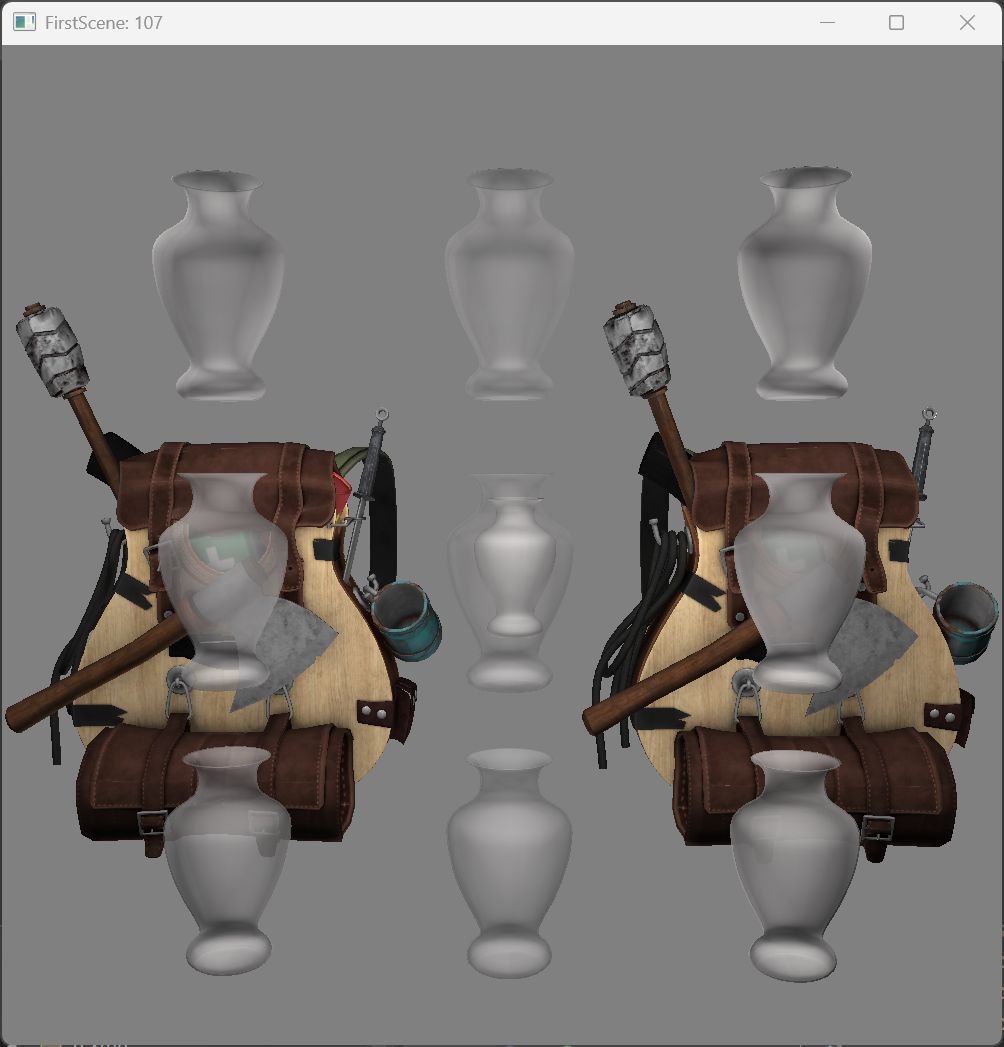
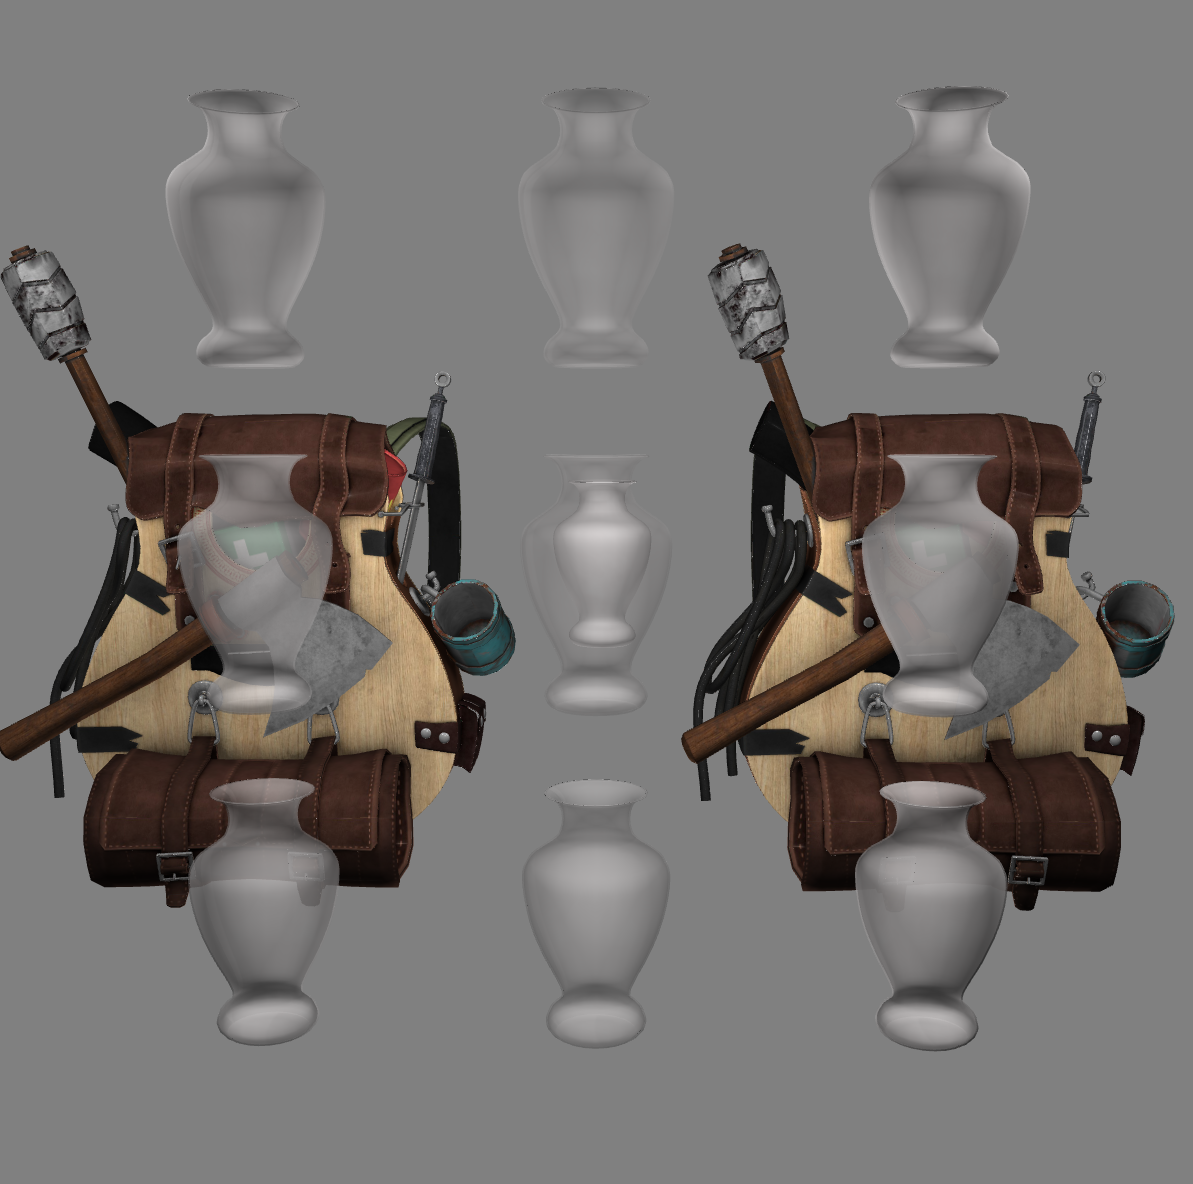
chore: update README.md

diff --git a/FirstScene/Framebuffer/Framebuffer.cpp b/FirstScene/Framebuffer/Framebuffer.cpp
@@ -21,23 +21,39 @@ void Framebuffer::attachColorTexture(unsigned int internalFormat, unsigned int f
 
 	glBindFramebuffer(GL_FRAMEBUFFER, FBO);
 	if (msaa) {
-		RenderTexture2D textureMSAA = RenderTexture2D(
+		std::shared_ptr<RenderTexture2D> textureMSAA = std::make_shared<RenderTexture2D>(
 			width, height, internalFormat,
 			GL_CLAMP_TO_EDGE, GL_CLAMP_TO_EDGE,
 			GL_LINEAR, GL_LINEAR
 		);
-		glFramebufferTexture2D(GL_FRAMEBUFFER, GL_COLOR_ATTACHMENT0 + index, GL_TEXTURE_2D_MULTISAMPLE, textureMSAA.getID(), 0);
-		colorAttachments.emplace_back(std::move(textureMSAA));
+		glFramebufferTexture2D(GL_FRAMEBUFFER, GL_COLOR_ATTACHMENT0 + index, GL_TEXTURE_2D_MULTISAMPLE, textureMSAA->getID(), 0);
+		colorAttachments.emplace_back(textureMSAA);
 	} else {
-		RenderTexture2D texture = RenderTexture2D(
+		std::shared_ptr<RenderTexture2D> texture = std::make_shared<RenderTexture2D>(
 			width, height, internalFormat, format, dataType,
 			GL_CLAMP_TO_EDGE, GL_CLAMP_TO_EDGE,
 			GL_LINEAR, GL_LINEAR
 		);
-		glFramebufferTexture2D(GL_FRAMEBUFFER, GL_COLOR_ATTACHMENT0 + index, GL_TEXTURE_2D, texture.getID(), 0);
-		colorAttachments.emplace_back(std::move(texture));
+		glFramebufferTexture2D(GL_FRAMEBUFFER, GL_COLOR_ATTACHMENT0 + index, GL_TEXTURE_2D, texture->getID(), 0);
+		colorAttachments.emplace_back(texture);
 	}
 
+	glBindFramebuffer(GL_FRAMEBUFFER, 0);
+}
+
+void Framebuffer::attachColorTexture(std::shared_ptr<RenderTexture2D> texture)
+{
+	unsigned int index = attachmentCount++;
+	int maxAttach;
+	glGetIntegerv(GL_MAX_COLOR_ATTACHMENTS, &maxAttach);
+	if (index >= static_cast<unsigned int>(maxAttach)) {
+		std::cerr << "Exceeded maximum number of color attachments" << std::endl;
+		return;
+	}
+
+	glBindFramebuffer(GL_FRAMEBUFFER, FBO);
+	glFramebufferTexture2D(GL_FRAMEBUFFER, GL_COLOR_ATTACHMENT0 + index, GL_TEXTURE_2D, texture->getID(), 0);
+	colorAttachments.emplace_back(texture);
 	glBindFramebuffer(GL_FRAMEBUFFER, 0);
 }
 
@@ -131,5 +147,5 @@ void Framebuffer::blitRenderbuffer(Framebuffer& other) const
 
 void Framebuffer::bindColorTexture(unsigned int index) const
 {
-	colorAttachments[index].bind();
+	colorAttachments[index]->bind();
 }

diff --git a/FirstScene/main.cpp b/FirstScene/main.cpp
@@ -100,9 +100,6 @@ int main()
 	}
 
 	// Create framebuffers
-	Framebuffer intermediateFBO(SCREEN_WIDTH, SCREEN_HEIGHT, true);
-	intermediateFBO.attachColorTexture(GL_RGBA16F, GL_RGBA, GL_HALF_FLOAT);	// intermediate color texture
-
 	std::shared_ptr<Renderbuffer> depthRBO = std::make_shared<Renderbuffer>(
 		SCREEN_WIDTH, SCREEN_HEIGHT, RBOType::DEPTH, true
 	);
@@ -206,8 +203,6 @@ int main()
 		model = glm::rotate(model, glm::radians(-90.0f), glm::vec3(1.0f, 0.0f, 0.0f));
 		sceneDraw(vase, opaqueShader, model);
 
-		opaqueFBO.blitColorTexture(0, intermediateFBO, 0);
-
 		// Post-render settings
 		glDisable(GL_DEPTH_TEST);
 		glDisable(GL_CULL_FACE);
@@ -305,7 +300,7 @@ int main()
 		glDisable(GL_BLEND);
 
 		// Post-processing blending pass
-		intermediateFBO.bind();
+		opaqueFBO.bind();
 
 		// Pre-render settings
 		glEnable(GL_DEPTH_TEST);
@@ -332,7 +327,7 @@ int main()
 		glClear(GL_COLOR_BUFFER_BIT | GL_DEPTH_BUFFER_BIT);
 
 		screenQuad.draw(screenShader, std::vector<ScreenQuadTexture>{
-			{"screenTexture", intermediateFBO, 0}
+			{"screenTexture", opaqueFBO, 0}
 		});
 
 		// Swap buffers and poll IO events

diff --git a/FirstScene/Framebuffer/Framebuffer.h b/FirstScene/Framebuffer/Framebuffer.h
@@ -10,6 +10,7 @@ class Framebuffer
 public:
 	Framebuffer(unsigned int width, unsigned int height, bool msaa = false);
 	void attachColorTexture(unsigned int internalFormat, unsigned int format, unsigned dataType);
+	void attachColorTexture(std::shared_ptr<RenderTexture2D> texture);
 	void attachRenderbuffer(RBOType type);
 	void attachRenderbuffer(std::shared_ptr<Renderbuffer> renderbuffer);
 	void configureColorAttachments();
@@ -21,7 +22,7 @@ private:
 	unsigned int FBO;
 	unsigned int width, height;
 	bool msaa;
-	std::vector<RenderTexture2D> colorAttachments;
+	std::vector<std::shared_ptr<RenderTexture2D>> colorAttachments;
 	unsigned int attachmentCount = 0;
 	std::shared_ptr<Renderbuffer> renderbuffer;
 };

diff --git a/FirstScene/macro.h b/FirstScene/macro.h
@@ -1,5 +1,5 @@
 #pragma once
 const unsigned int OPENGL_MAJOR_VERSION = 4;
 const unsigned int OPENGL_MINOR_VERSION = 0;
-const unsigned int SCREEN_WIDTH = 1000;
-const unsigned int SCREEN_HEIGHT = 1000;
+const unsigned int SCREEN_WIDTH = 1200;
+const unsigned int SCREEN_HEIGHT = 1200;
